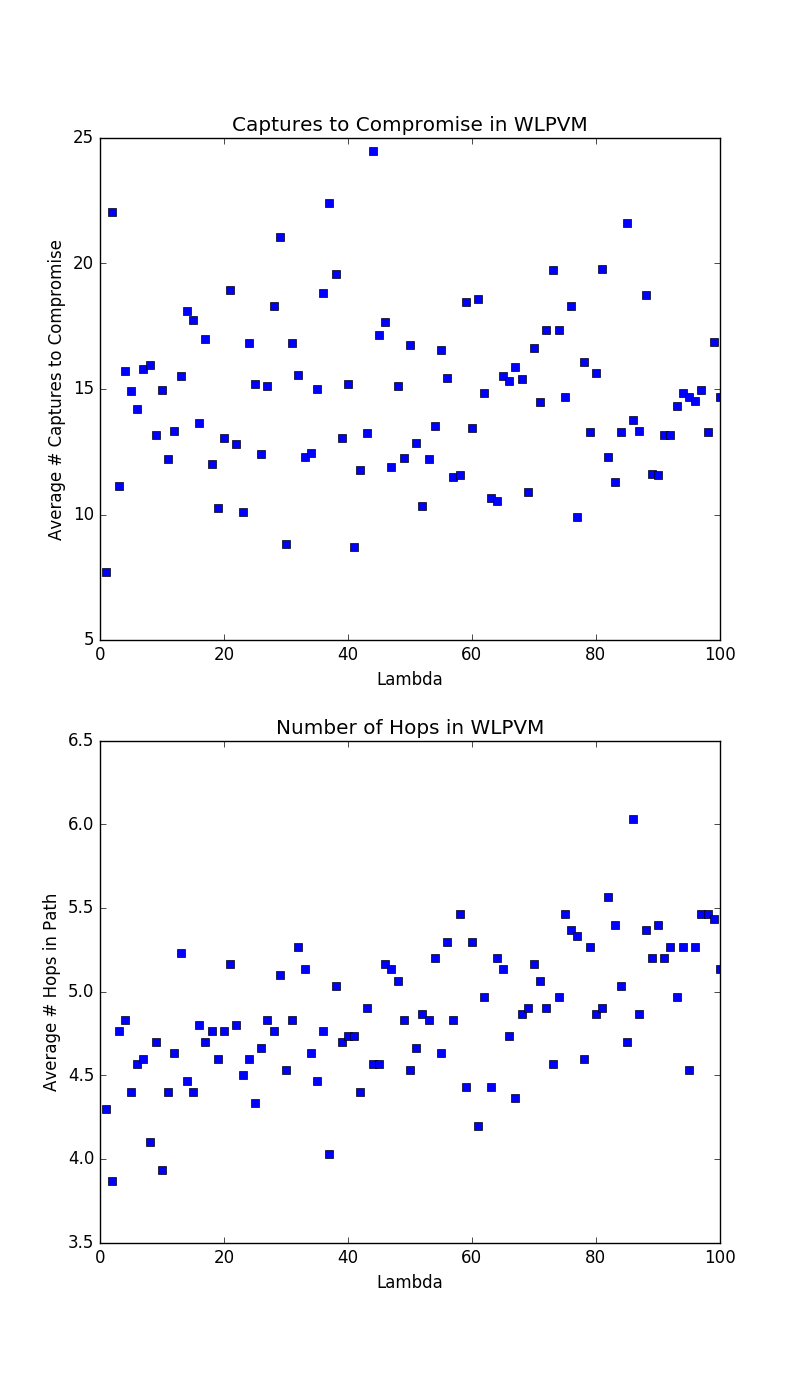
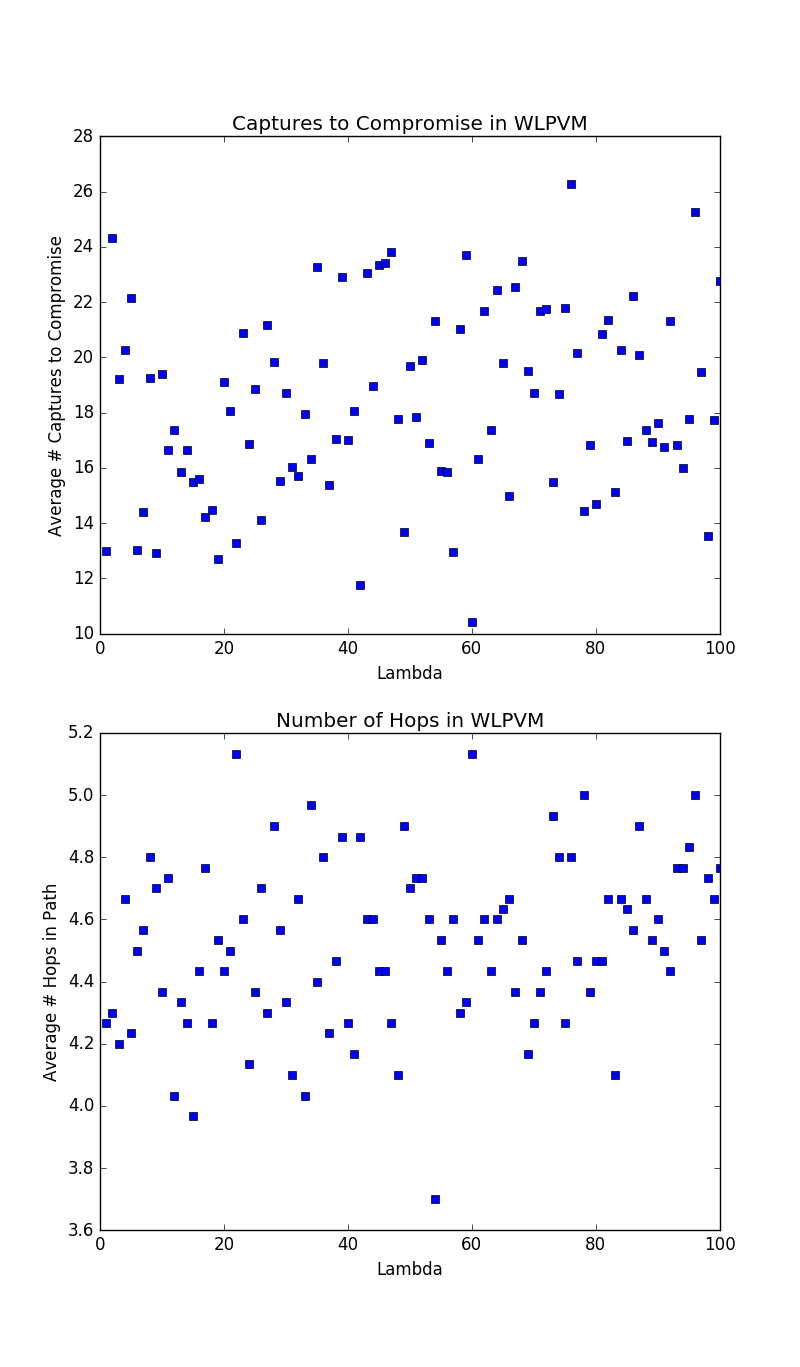
Working?

diff --git a/network.py b/network.py
@@ -3,6 +3,7 @@
 import networkx as nx
 import random
 import math
+from itertools import *
 
 
 # noinspection PyPep8Naming
@@ -14,10 +15,14 @@ class Network:
         self.keyPoolSize = keyPoolSize  # Number of keys in total pool
         self.keysPerNode = keysPerNode  # Number of pools per node
         self.commRange = commRange  # Range in meters of communication
+        # Array of sets which contain each index as a key
+        self.keyArr = [set() for i in range(keyPoolSize + 1)]
         # Generate all nodes within the network
         self.genNodes()
         # Add edges for all nodes which are in range of each other
         self.addEdges()
+        # Fill key array
+        self.fillKeyArr()
         # Add calculated LKVM values
         self.calcAllLKVM()
 
@@ -36,26 +41,6 @@ class Network:
         for edge in self.G.edges():
             self.calcTPVM(edge, gamma)
 
-    # # Calculates lkvm for an edge and stores it to the edge
-    # def calcLKVM(self, edge):
-    #     i = edge[0]
-    #     j = edge[1]
-    #     iKeys = self.G.nodes(1)[i][1]['keys']
-    #     jKeys = self.G.nodes(1)[j][1]['keys']
-    #     # Find shared keys along edge
-    #     sharedKeys = iKeys.intersection(jKeys)
-    #     # Empty set to keys acquired until same as shared keys
-    #     c = set()
-    #     # lkvm cost to add to
-    #     lkvm = 0
-    #     # Iterate while sharedKeys aren't within c
-    #     while not sharedKeys.issubset(c):
-    #         randNodeIndex = random.randint(0, self.size - 1)
-    #         c= c.union(self.G.nodes(1)[randNodeIndex][1]['keys'])
-    #         lkvm += 1
-    #     self.G[i][j]['lkvm'] = lkvm
-    #     self.G[i][j]['keys'] = sharedKeys
-
     # Calculates lkvm for an edge and stores it to the edge
     def calcLKVM(self, edge):
         i = edge[0]
@@ -64,19 +49,27 @@ class Network:
         jKeys = self.G.nodes(1)[j][1]['keys']
         # Find shared keys along edge
         sharedKeys = iKeys.intersection(jKeys)
-        # lkvm cost to add to
+        # Total lkvm
         lkvm = 0
-        # Increment for every node which has an intersection
-        numSharedNodes = 0
-        N = len(self.G.nodes())
-        for node in self.G.nodes(1):
-            intersection = sharedKeys.intersection(node[1]['keys'])
-            if bool(intersection):
-                cardT = len(intersection)
-                lkvm += 2 * ((cardT) % 2) - 1
-                numSharedNodes += 1
-        self.G[i][j]['lkvm'] = 1.0 * N * lkvm / numSharedNodes
+        # Total nodes in graph
+        lenN = len(self.G.nodes())
+        # Permute T in powerset
+        for T in powerset(sharedKeys):
+            NT = set()
+            cardT = len(T)
+            for key in T:
+                NT = NT.union(self.keyArr[key])
+            lenNT = len(NT)
+            if lenNT > 0:
+                lkvm += 1.0 * (-1) ** (cardT + 1) * lenN / lenNT
+        self.G[i][j]['lkvm'] = lkvm    
         self.G[i][j]['keys'] = sharedKeys
+
+    # Adds value of node to the set at index of each key
+    def fillKeyArr(self):
+        for node in self.G.nodes(1):
+            for key in node[1]['keys']:
+                self.keyArr[key].add(node[0])
 
     # Generates the nodes within the network
     def genNodes(self):
@@ -125,3 +118,8 @@ class Network:
         else:
             tpvm = float("inf")
         self.G[i][j]['tpvm'] = tpvm
+
+def powerset(iterable):
+    "powerset([1,2,3]) --> () (1,) (2,) (3,) (1,2) (1,3) (2,3) (1,2,3)"
+    s = list(iterable)
+    return chain.from_iterable(combinations(s, r) for r in range(len(s)+1))
